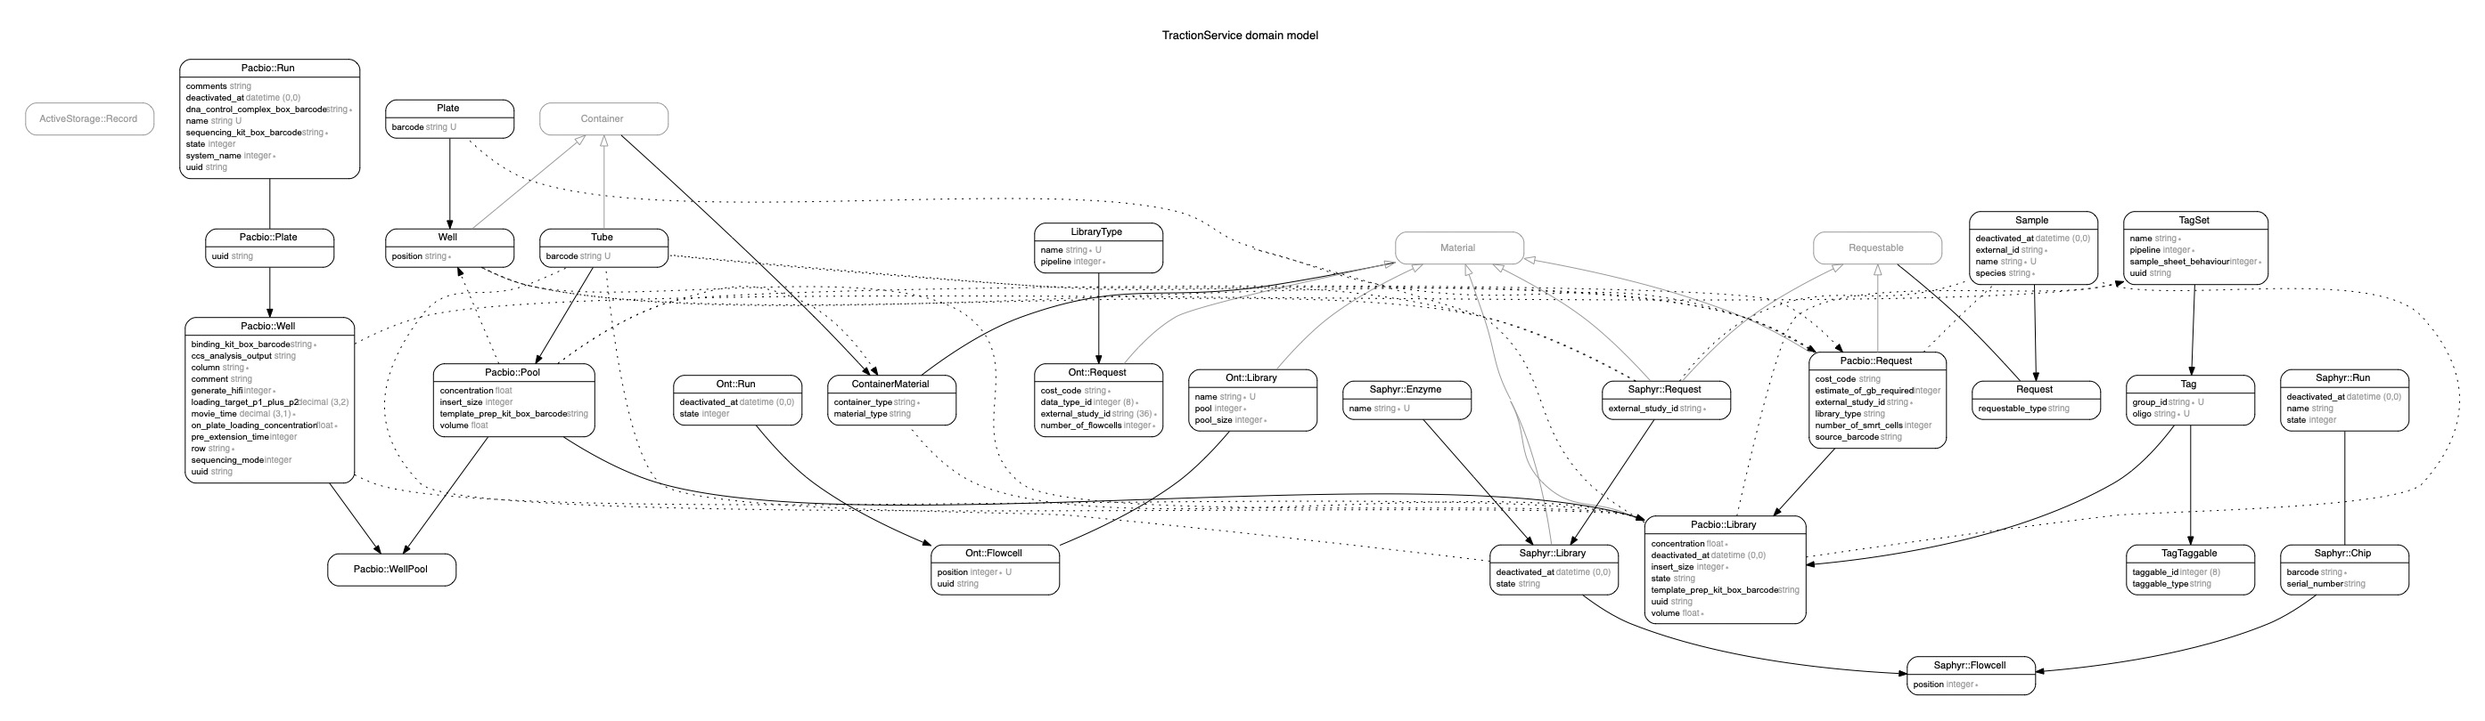
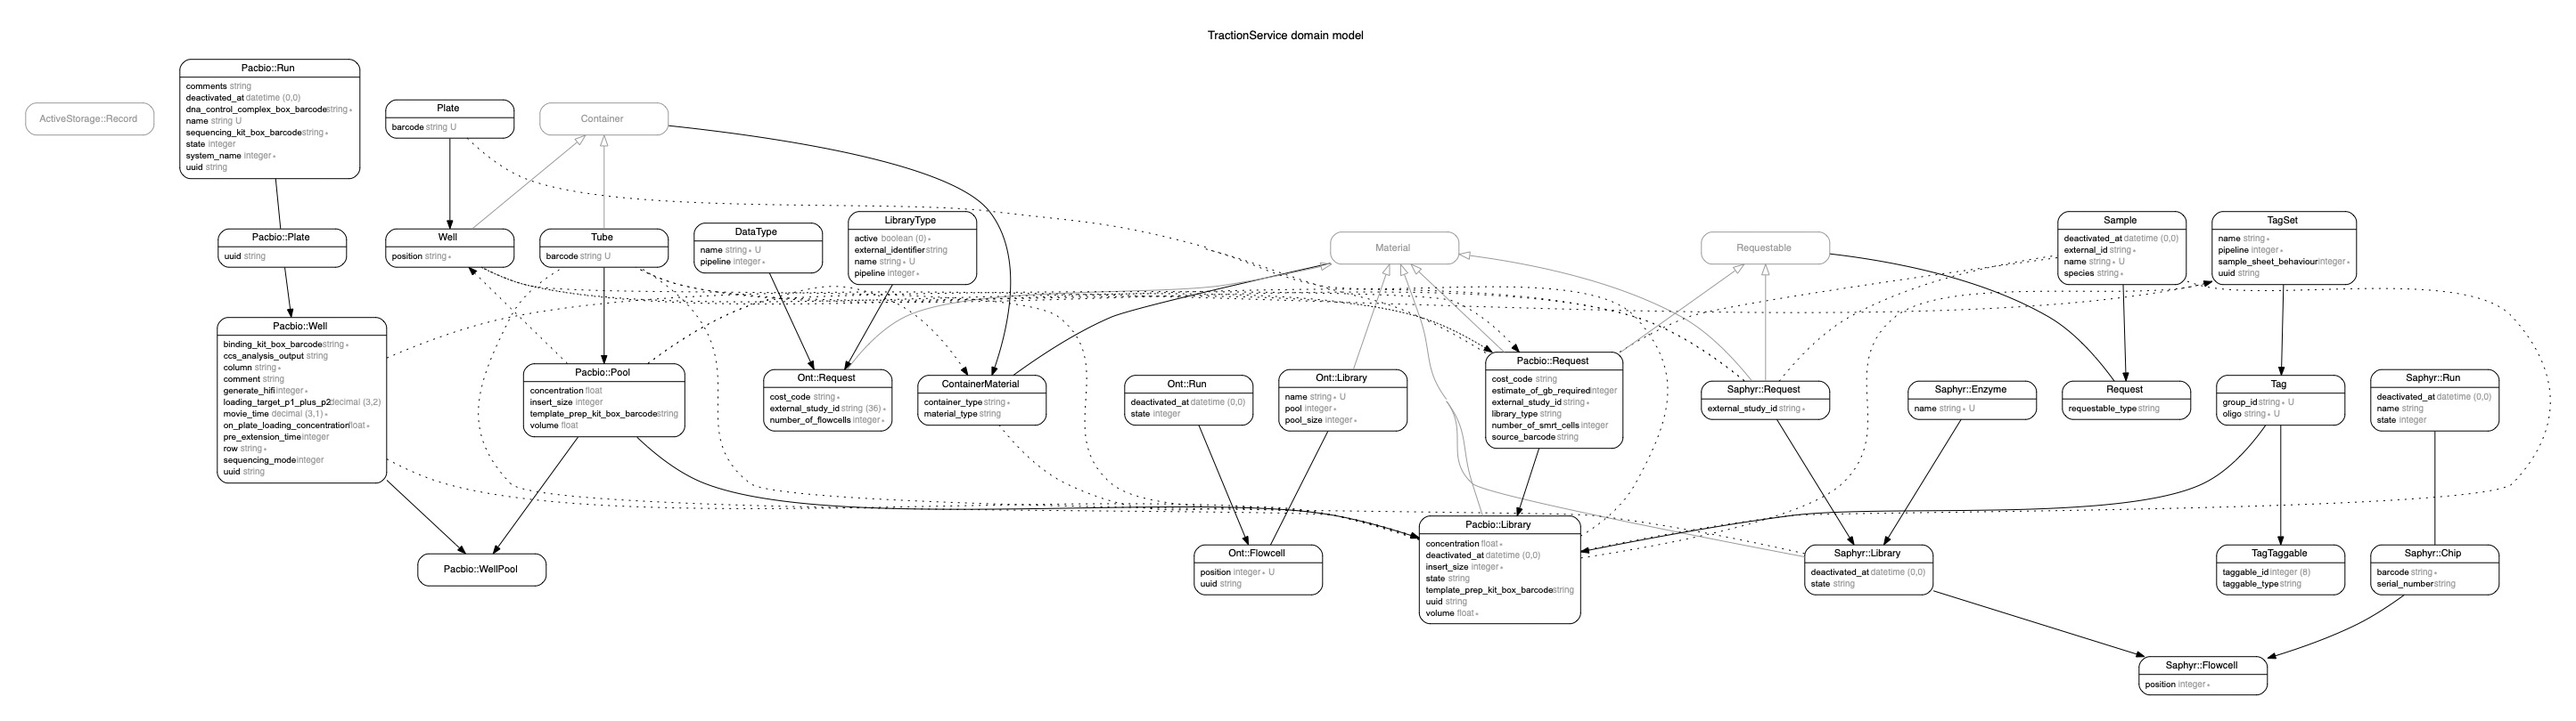
Library types can be inactive, have external_identifiers
https://github.com/sanger/traction-service/issues/730 also
makes some requirements wrt library_type.

diff --git a/db/schema.rb b/db/schema.rb
@@ -10,7 +10,7 @@
 #
 # It's strongly recommended that you check this file into your version control system.
 
-ActiveRecord::Schema[7.0].define(version: 2022_06_10_094347) do
+ActiveRecord::Schema[7.0].define(version: 2022_06_10_122339) do
   create_table "container_materials", charset: "utf8mb3", force: :cascade do |t|
     t.string "container_type", null: false
     t.bigint "container_id", null: false
@@ -46,6 +46,8 @@ ActiveRecord::Schema[7.0].define(version: 2022_06_10_094347) do
     t.integer "pipeline", null: false
     t.datetime "created_at", null: false
     t.datetime "updated_at", null: false
+    t.string "external_identifier"
+    t.boolean "active", default: true, null: false
     t.index ["pipeline", "name"], name: "index_library_types_on_pipeline_and_name", unique: true
     t.index ["pipeline"], name: "index_library_types_on_pipeline"
   end

diff --git a/spec/models/library_type_spec.rb b/spec/models/library_type_spec.rb
@@ -19,6 +19,16 @@ RSpec.describe LibraryType, type: :model do
     end
   end
 
+  describe '::active' do
+    subject { described_class.active }
+
+    let!(:active_library_type) { create :library_type, active: true }
+    let!(:inactive_library_type) { create :library_type, active: false }
+
+    it { is_expected.to include(active_library_type) }
+    it { is_expected.not_to include(inactive_library_type) }
+  end
+
   it 'must have a pipeline' do
     expect(build(:library_type, pipeline: nil)).not_to be_valid
   end

diff --git a/db/migrate/20220610122339_add_application_active_to_library_type.rb b/db/migrate/20220610122339_add_application_active_to_library_type.rb
@@ -1,0 +1,10 @@
+# frozen_string_literal: true
+
+# Reminded of
+# https://github.com/sanger/traction-service/issues/730
+class AddApplicationActiveToLibraryType < ActiveRecord::Migration[7.0]
+  def change
+    add_column :library_types, :external_identifier, :string
+    add_column :library_types, :active, :boolean, default: 1, null: false
+  end
+end

diff --git a/app/models/library_type.rb b/app/models/library_type.rb
@@ -8,4 +8,6 @@ class LibraryType < ApplicationRecord
 
   validates :pipeline, presence: true
   validates :name, presence: true, uniqueness: { scope: :pipeline }
+
+  scope :active, -> { where(active: true) }
 end
